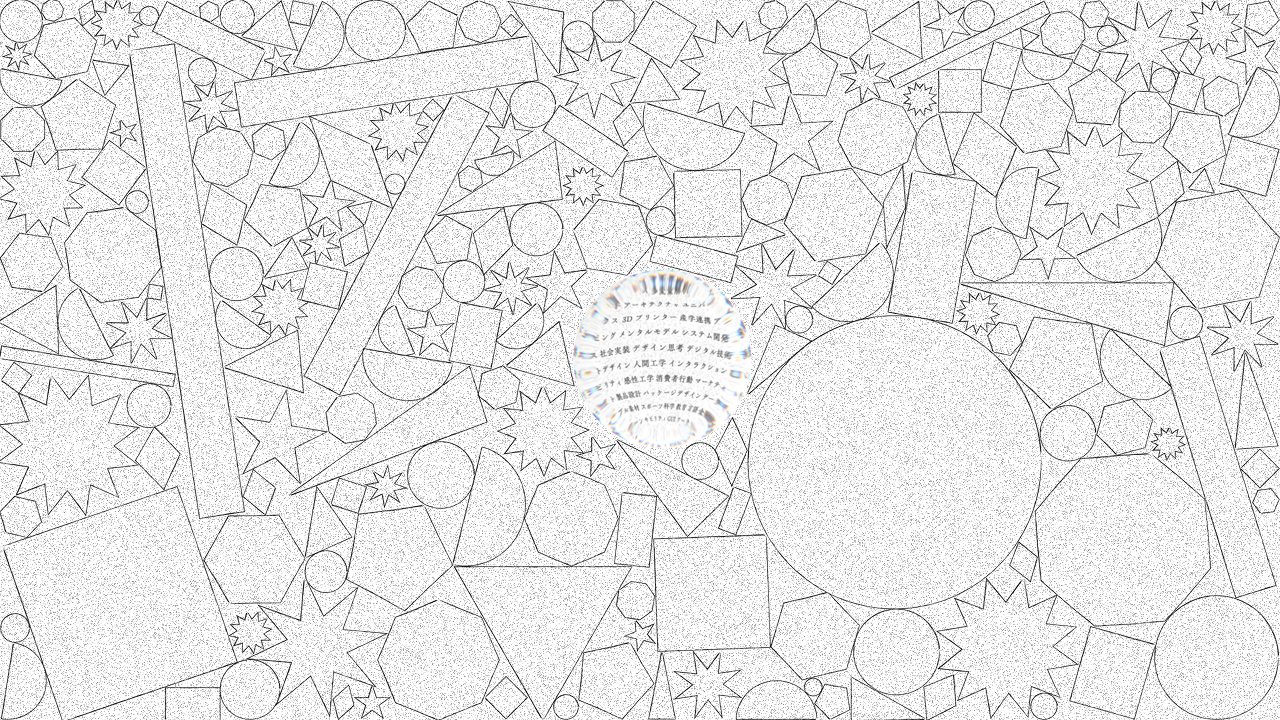
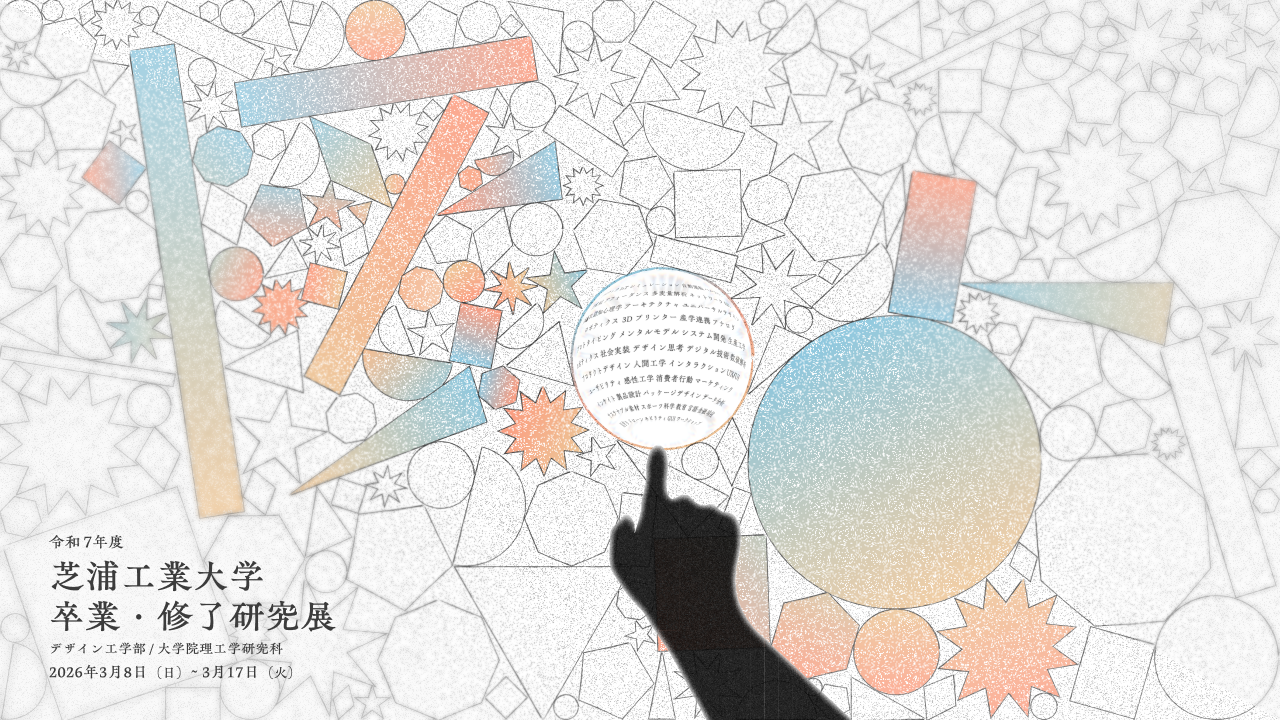
kv画像差し替え

diff --git a/app/TopPageClient.tsx b/app/TopPageClient.tsx
@@ -142,7 +142,9 @@ export default function TopPageClient({
       {/* ヒーロー領域は指定のKV画像に差し替えます。 */}
       <section
         data-reveal
-        className="relative h-[698px] w-full overflow-hidden md:h-[720px]"
+        // SPは画像の縦横比に合わせて高さを自動決定し、KV画像全体が切れずに表示されるようにします。
+        // PCは従来どおり固定高さでヒーロー領域を構成します。
+        className="relative w-full overflow-hidden md:h-[720px]"
       >
         {/* デスクトップ/モバイルでKV画像を切り替えます。 */}
         <img
@@ -155,21 +157,12 @@ export default function TopPageClient({
           aria-hidden="true"
           alt=""
           src="/image/top-kv-sp.png"
-          className="absolute inset-0 h-full w-full object-cover md:hidden"
+          // SPはobject-coverを使わず画像全体を表示し、縦方向のトリミングを防ぎます。
+          className="block h-auto w-full md:hidden"
         />
 
-        {/* ヒーロー内テキストは中央に寄せ、展示の正式名称を目立たせます。 */}
-        <div className="relative z-10 flex h-full flex-col items-center justify-center px-6 text-center md:px-8 lg:px-[128px]">
-          <p className="text-[12px] font-medium tracking-[0.3em] text-[#6A7378] [font-family:var(--font-roboto)] md:text-[14px] md:tracking-[0.35em]">
-            SIT DESIGN EXPO 2026
-          </p>
-          <h1 className="mt-4 text-[32px] font-extrabold tracking-[0.08em] text-[#2E3437] [font-family:var(--font-shippori-mincho-b1),'Hiragino_Mincho_ProN',serif] md:mt-6 md:text-[40px] md:tracking-[0.1em]">
-            卒業・修了研究展
-          </h1>
-          <p className="mt-3 text-[13px] text-[#6A7378] md:text-[15px]">
-            芝浦工業大学 デザイン工学部
-          </p>
-        </div>
+        {/* KV画像に文字情報を埋め込んだため重ね表示は削除し、見出し構造維持のために不可視h1のみ残します。 */}
+        <h1 className="sr-only">SIT DESIGN EXPO 2026 卒業・修了研究展</h1>
 
         {/* メニューボタンは共通ヘッダー側で固定表示しています。 */}
       </section>

diff --git a/app/components/Footer.tsx b/app/components/Footer.tsx
@@ -56,7 +56,8 @@ export default function Footer({ className }: FooterProps) {
           {/* SNSアイコンはSVG画像で表示し、実際の公式リンクに遷移します。 */}
           <div className="flex flex-wrap items-center justify-center gap-x-8 gap-y-4 py-1">
             <a
-              href="https://x.com/b7xWHVd7ak81271"
+              // X公式アカウントが変更されたため、フッターの遷移先を新URLへ更新します。
+              href="https://x.com/sitdezasotsu_26?s=21"
               target="_blank"
               rel="noopener noreferrer"
               aria-label="X"
